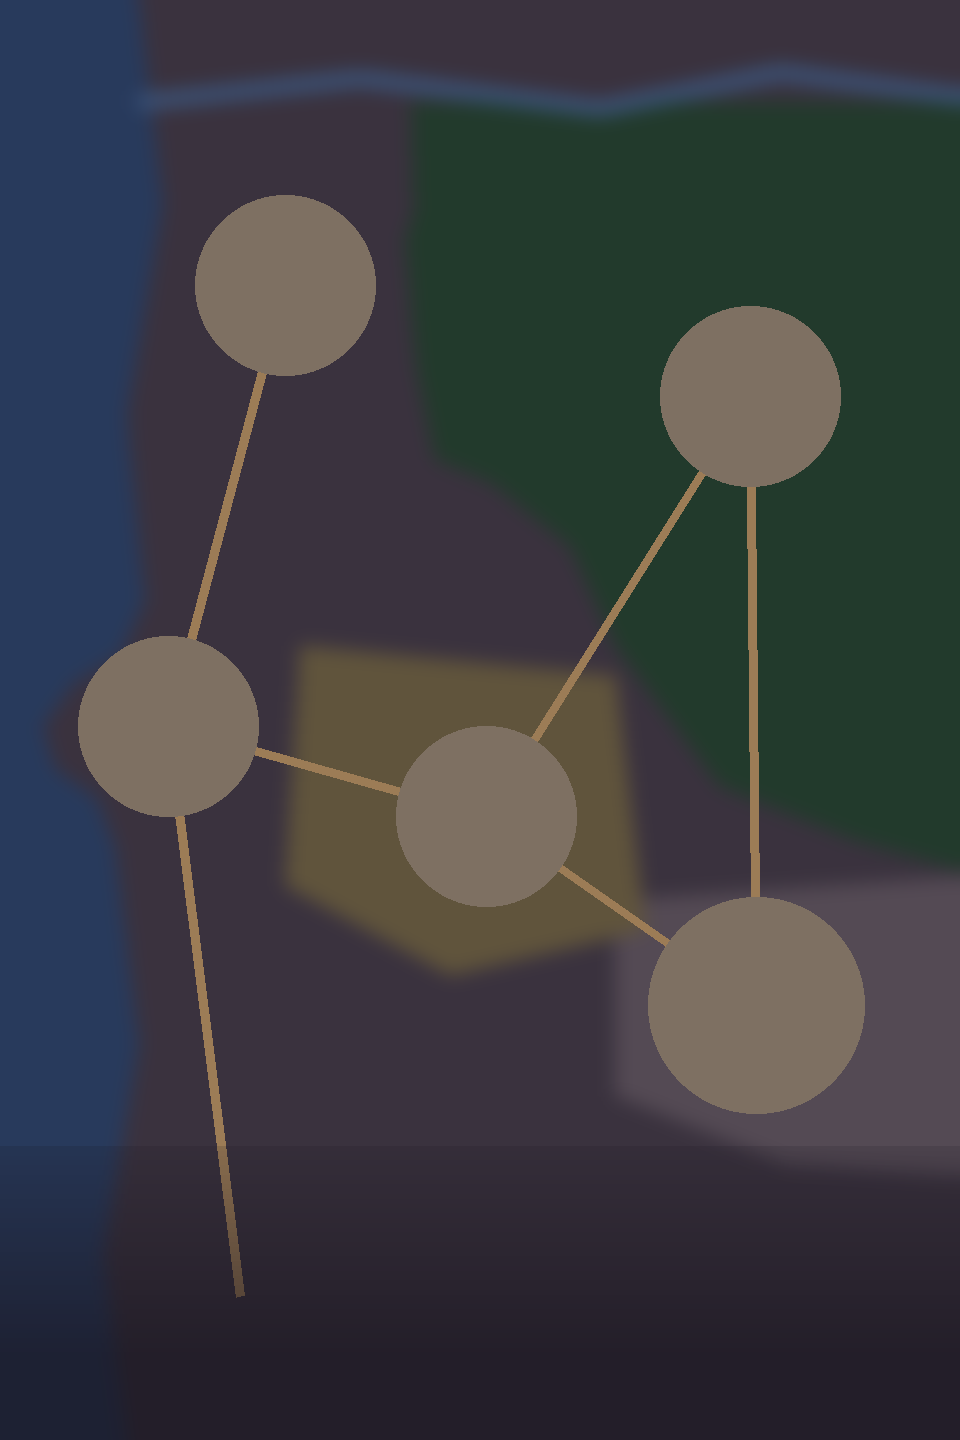
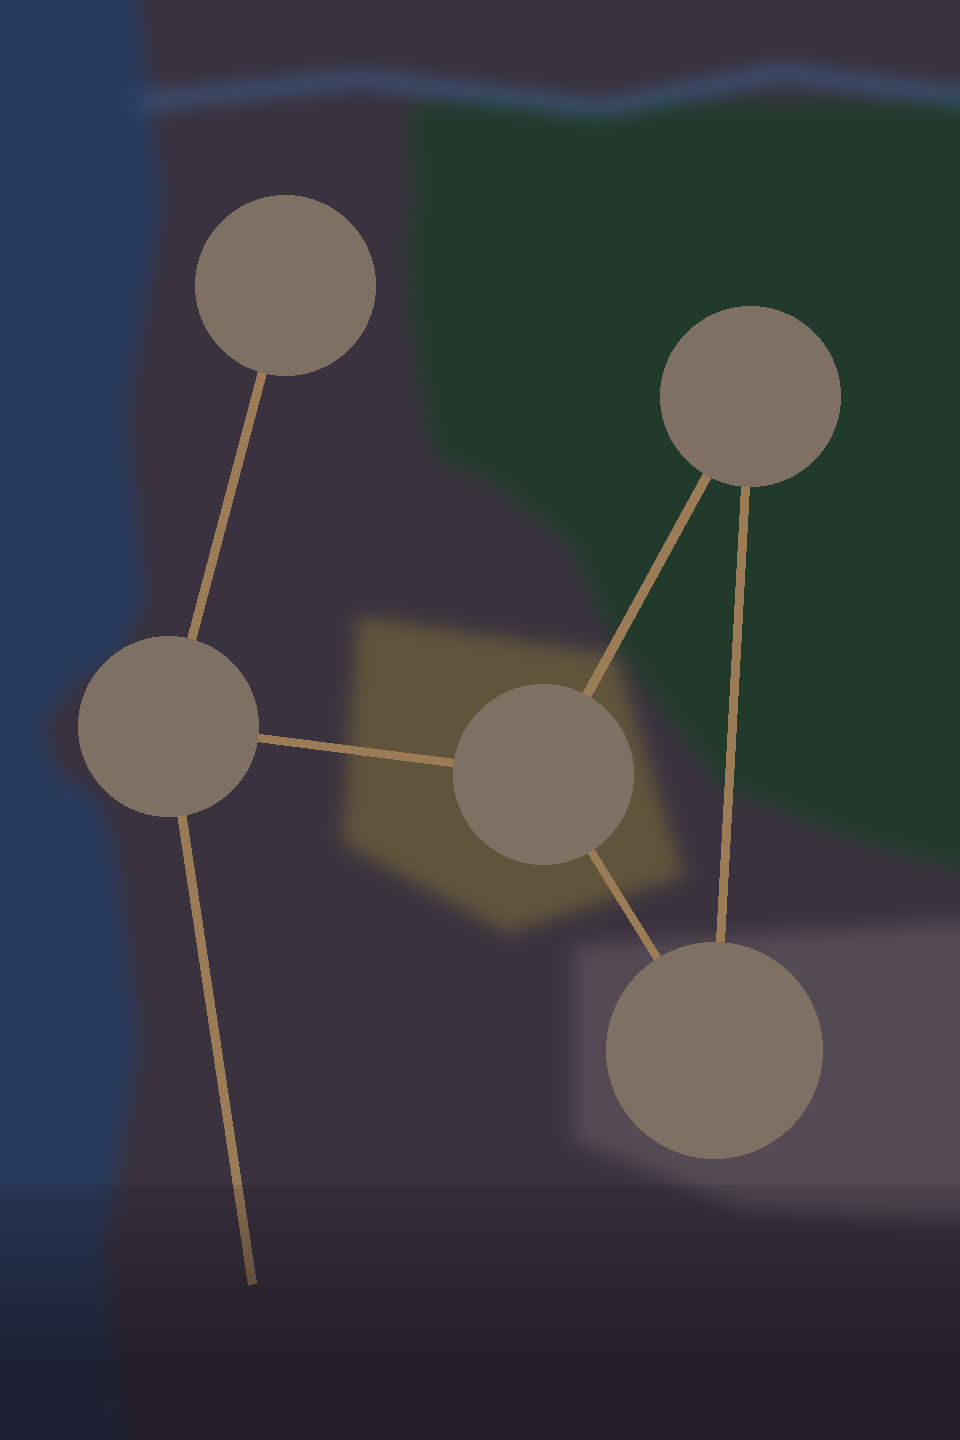
Map: Wheat Valley at the forest edge, Gloomy Hill lower and more central, bigger southern cities
Claude-Session: https://claude.ai/code/session_019MjjXLha8yNk8xC45jXx5G

Changed region(s): [[0.25, 0.3438, 1.0, 0.8438], [0.1875, 0.5625, 0.2812, 0.9062], [0.7188, 0.3125, 0.75, 0.3438]]

diff --git a/OlaPT/Views/Game/EmpireView.swift b/OlaPT/Views/Game/EmpireView.swift
@@ -8,8 +8,8 @@ enum MapLayout {
     static let height: CGFloat = 480
 
     static let towns: [CGPoint] = [
-        CGPoint(x: 95, y: 95), CGPoint(x: 56, y: 242), CGPoint(x: 162, y: 272),
-        CGPoint(x: 250, y: 132), CGPoint(x: 252, y: 335),
+        CGPoint(x: 95, y: 95), CGPoint(x: 56, y: 242), CGPoint(x: 181, y: 258),
+        CGPoint(x: 250, y: 132), CGPoint(x: 238, y: 350),
     ]
     /// Размер поселения на карте (картинки — втрое подробнее, Tools/game/build_game_assets.py)
     static let spriteSize: [CGSize] = [
@@ -17,7 +17,7 @@ enum MapLayout {
         CGSize(width: 96, height: 96), CGSize(width: 112, height: 112),
     ]
     static let sprites = ["settle_0_calada", "settle_1_redes", "settle_2_trigo", "settle_3_souto", "settle_4_monte"]
-    static let south = CGPoint(x: 80, y: 432)
+    static let south = CGPoint(x: 84, y: 428)
 
     /// Место для обелиска: на дороге или чуть в стороне от неё (поле, лес).
     static func spot(_ id: Int) -> CGPoint {
@@ -206,7 +206,7 @@ struct EmpireView: View {
                 Image("south_city")
                     .interpolation(.high)
                     .resizable()
-                    .frame(width: 72 * s, height: 54 * s)
+                    .frame(width: 120 * s, height: 80 * s)
                     .opacity(0.9)
                     .position(x: MapLayout.south.x * s, y: MapLayout.south.y * s)
                 Text(L("Большие города юга"))
@@ -215,7 +215,7 @@ struct EmpireView: View {
                     .padding(.horizontal, 4)
                     .background(Theme.panelDeep.opacity(0.75))
                     .fixedSize()
-                    .position(x: MapLayout.south.x * s, y: (MapLayout.south.y + 30) * s)
+                    .position(x: MapLayout.south.x * s, y: (MapLayout.south.y + 42) * s)
             }
         }
         .aspectRatio(MapLayout.width / MapLayout.height, contentMode: .fit)

diff --git a/Tools/game/make_layout_act1.py b/Tools/game/make_layout_act1.py
@@ -15,10 +15,10 @@ W, H, S = 320, 480, 3
 P = {
     0: (95, 95, 30, "start"),
     1: (56, 242, 30, "vil"),
-    2: (162, 272, 30, "vil"),
+    2: (181, 258, 30, "vil"),
     3: (250, 132, 30, "vil"),
-    4: (252, 335, 36, "fort"),
-    "S": (80, 432, 30, "south"),
+    4: (238, 350, 36, "fort"),
+    "S": (84, 428, 30, "south"),
 }
 ROADS = [(0, 1), (1, 2), (2, 3), (3, 4), (2, 4)]
 CLOSED = [(1, "S")]
@@ -49,8 +49,8 @@ def base(d):
     d.polygon(pts([(137, 34), (320, 34), (320, 290), (285, 280), (240, 262), (205, 215), (190, 182),
                    (164, 161), (145, 153), (139, 123), (135, 80), (138, 70)]),
               fill=C["forest"])
-    d.polygon(pts([(205, 300), (320, 292), (320, 392), (262, 388), (205, 365)]), fill=C["hills"])
-    d.polygon(pts([(100, 215), (205, 225), (215, 310), (150, 325), (95, 295)]), fill=C["fields"])
+    d.polygon(pts([(191, 315), (320, 307), (320, 407), (248, 403), (191, 380)]), fill=C["hills"])
+    d.polygon(pts([(119, 205), (205, 218), (228, 292), (169, 311), (114, 281)]), fill=C["fields"])
     d.polygon(pts(COAST), fill=C["sea"])
     # Северная граница — река
     d.line(pts([(46, 34), (120, 26), (200, 36), (260, 24), (320, 32)]), fill=C["river"], width=s(5))
@@ -90,9 +90,9 @@ def fog(img):
     over = Image.new("RGBA", img.size, (0, 0, 0, 0))
     od = ImageDraw.Draw(over)
     for i in range(60):
-        y = 382 + i * 1.6
+        y = 395 + i * 1.4
         od.rectangle([0, s(y), s(W), s(y + 2.4)], fill=C["fog"] + (min(170, 40 + i * 3),))
-    od.rectangle([0, s(382 + 60 * 1.6), s(W), s(H)], fill=C["fog"] + (170,))
+    od.rectangle([0, s(395 + 60 * 1.4), s(W), s(H)], fill=C["fog"] + (170,))
     x, y, r, _ = P["S"]
     od.rounded_rectangle([s(x - r), s(y - r * 0.7), s(x + r), s(y + r * 0.7)], radius=s(4),
                          outline=(150, 140, 160, 255), width=s(2))
@@ -144,9 +144,9 @@ def make_guide():
     over = Image.new("RGBA", img.size, (0, 0, 0, 0))
     od = ImageDraw.Draw(over)
     for i in range(60):
-        y = 382 + i * 1.6
+        y = 395 + i * 1.4
         od.rectangle([0, s(y), s(W), s(y + 2.4)], fill=C["fog"] + (min(170, 40 + i * 3),))
-    od.rectangle([0, s(382 + 60 * 1.6), s(W), s(H)], fill=C["fog"] + (170,))
+    od.rectangle([0, s(395 + 60 * 1.4), s(W), s(H)], fill=C["fog"] + (170,))
     return Image.alpha_composite(img.convert("RGBA"), over).convert("RGB")
 
 

diff --git a/Tools/game/build_game_assets.py b/Tools/game/build_game_assets.py
@@ -31,7 +31,7 @@ SETTLEMENTS = [
 ]
 MAP = ("map_act1", 320, 480)
 # Большие города юга в тумане: закрыты в Акте 1
-SOUTH = ("south_city", 72, 54)
+SOUTH = ("south_city", 120, 80)
 
 
 def imageset(name, img, scales=(1,), template=False, folder=OUT):
